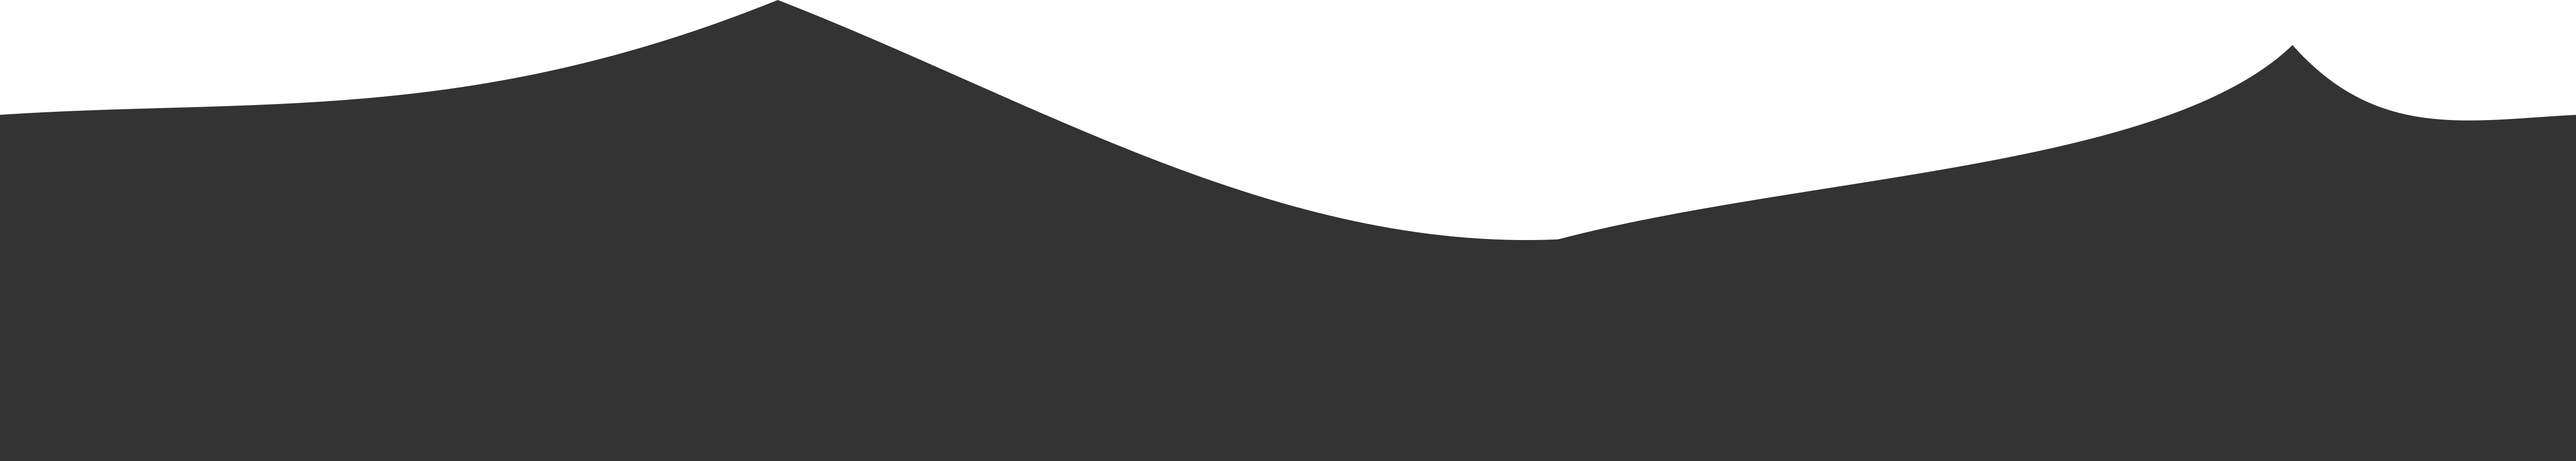
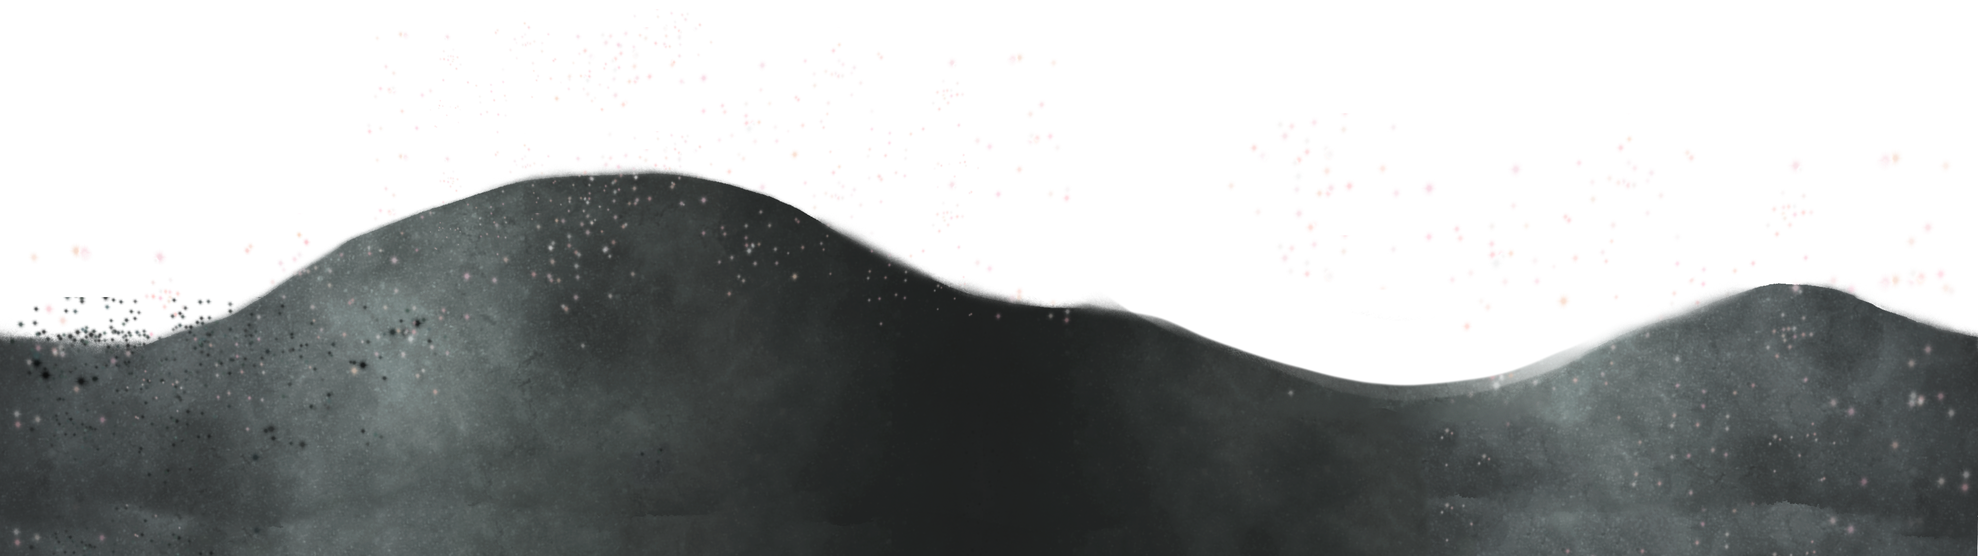
FIX: Parallax + NEW assets Lucie
- Corrections et ajustements sur le parallax pour faciliter l'automatisation.
- Mise en place des nouveaux assets de Lucie

diff --git a/src/scenes/Hud.ts b/src/scenes/Hud.ts
@@ -1,5 +1,6 @@
 import {Scene} from 'phaser';
 import {TextureKey} from './Preloader.ts';
+import ColorList from '../domain/ColorList.ts';
 
 const TIMMER_POSITION_X = 150;
 const TIMMER_POSITION_Y = 60;
@@ -18,28 +19,28 @@ const PROGRESS_BAR_POSITION_Y = 39;
 
 const PROGRESS_BAR_BACKGROUND_COLORS = [
   {
-    color: 0xE32332,
-    asset: TextureKey.hud.progress_bar_background_red,
+    color: ColorList.h2n('#E32332'),
+    asset: TextureKey.hud.background_gauge_0,
     position: {x: BACKGROUND_PROGRESS_BAR_POSITION_X + 7, y: BACKGROUND_PROGRESS_BAR_POSITION_Y - 3}
   },
   {
     color: 0x8E17EB,
-    asset: TextureKey.hud.progress_bar_background_blue,
+    asset: TextureKey.hud.background_gauge_1,
     position: {x: BACKGROUND_PROGRESS_BAR_POSITION_X + 3, y: BACKGROUND_PROGRESS_BAR_POSITION_Y - 6.4}
   },
   {
     color: 0x2FE640,
-    asset: TextureKey.hud.progress_bar_background_green,
+    asset: TextureKey.hud.background_gauge_2,
     position: {x: BACKGROUND_PROGRESS_BAR_POSITION_X + 8, y: BACKGROUND_PROGRESS_BAR_POSITION_Y - 4}
   },
   {
     color: 0xF649A8,
-    asset: TextureKey.hud.progress_bar_background_pink,
+    asset: TextureKey.hud.background_gauge_3,
     position: {x: BACKGROUND_PROGRESS_BAR_POSITION_X + 8, y: BACKGROUND_PROGRESS_BAR_POSITION_Y - 6}
   },
   {
     color: 0xF8DB1B,
-    asset: TextureKey.hud.progress_bar_background_yellow,
+    asset: TextureKey.hud.background_gauge_4,
     position: {x: BACKGROUND_PROGRESS_BAR_POSITION_X + 11, y: BACKGROUND_PROGRESS_BAR_POSITION_Y}
   }
 ];
@@ -68,11 +69,11 @@ export class Hud extends Scene {
     this.timerBackground = this.add.sprite(
         TIMMER_POSITION_X,
         TIMMER_POSITION_Y,
-        TIMER_BACKGROUNDS[0].asset
+        TextureKey.hud.timer_background_pink
     );
     this.timerBackground.setScale(0.2);
     this.timerBackground.setOrigin(0.5, 0.5);
-    this.currentTimerAsset = TIMER_BACKGROUNDS[0].asset;
+    this.currentTimerAsset = TextureKey.hud.timer_background_pink;
 
     this.timerText = this.add.text(
         TIMMER_POSITION_X,
@@ -112,20 +113,6 @@ export class Hud extends Scene {
 
     const formattedTime = `${minutes.toString().padStart(2, '0')}:${seconds.toString().padStart(2, '0')}`;
     this.timerText.setText(formattedTime);
-
-    this.updateTimerBackground(elapsedTime);
-  }
-
-  updateTimerBackground(elapsedTime: number) {
-    const timerData = TIMER_BACKGROUNDS.find((data, index) => {
-      const nextData = TIMER_BACKGROUNDS[index + 1];
-      return elapsedTime >= data.time && (!nextData || elapsedTime < nextData.time);
-    }) || TIMER_BACKGROUNDS[0];
-
-    if (this.currentTimerAsset !== timerData.asset) {
-      this.currentTimerAsset = timerData.asset;
-      this.timerBackground.setTexture(timerData.asset);
-    }
   }
 
   updateProgressBar() {

diff --git a/src/components/player/PlayerWithBubbleTeas.ts b/src/components/player/PlayerWithBubbleTeas.ts
@@ -37,13 +37,15 @@ export default class PlayerWithBubbleTeas {
 
     this.playerCharacter.setPosition(this.x, this.y);
 
-    this.bubbleTeaStockList[0]?.move(this.playerCharacter.x + this.playerCharacter.getPlayerImageBounds().width * .699, this.playerCharacter.getPlayerImageBounds().height * 1.91);
-    this.bubbleTeaStockList[1]?.move(this.playerCharacter.x + this.playerCharacter.getPlayerImageBounds().width * .8745, this.playerCharacter.getPlayerImageBounds().height * 1.91);
-    this.bubbleTeaStockList[2]?.move(this.playerCharacter.x + this.playerCharacter.getPlayerImageBounds().width * 1.05, this.playerCharacter.getPlayerImageBounds().height * 1.91);
+    const verticalOffset = this.playerCharacter.getBounds().bottom - this.scene.scale.height;
 
-    this.bubbleTeaActifList[0]?.move(this.playerCharacter.x + this.playerCharacter.getPlayerImageBounds().width * .699, this.playerCharacter.getPlayerImageBounds().height * 1.727);
-    this.bubbleTeaActifList[1]?.move(this.playerCharacter.x + this.playerCharacter.getPlayerImageBounds().width * .8745, this.playerCharacter.getPlayerImageBounds().height * 1.727);
-    this.bubbleTeaActifList[2]?.move(this.playerCharacter.x + this.playerCharacter.getPlayerImageBounds().width * 1.05, this.playerCharacter.getPlayerImageBounds().height * 1.727);
+    this.bubbleTeaStockList[0]?.move(this.playerCharacter.x + this.playerCharacter.getPlayerImageBounds().width * .699, verticalOffset + this.playerCharacter.getPlayerImageBounds().height * 1.91);
+    this.bubbleTeaStockList[1]?.move(this.playerCharacter.x + this.playerCharacter.getPlayerImageBounds().width * .8745, verticalOffset + this.playerCharacter.getPlayerImageBounds().height * 1.91);
+    this.bubbleTeaStockList[2]?.move(this.playerCharacter.x + this.playerCharacter.getPlayerImageBounds().width * 1.05, verticalOffset + this.playerCharacter.getPlayerImageBounds().height * 1.91);
+
+    this.bubbleTeaActifList[0]?.move(this.playerCharacter.x + this.playerCharacter.getPlayerImageBounds().width * .699, verticalOffset + this.playerCharacter.getPlayerImageBounds().height * 1.727);
+    this.bubbleTeaActifList[1]?.move(this.playerCharacter.x + this.playerCharacter.getPlayerImageBounds().width * .8745, verticalOffset + this.playerCharacter.getPlayerImageBounds().height * 1.727);
+    this.bubbleTeaActifList[2]?.move(this.playerCharacter.x + this.playerCharacter.getPlayerImageBounds().width * 1.05, verticalOffset + this.playerCharacter.getPlayerImageBounds().height * 1.727);
   }
 
   public setHeight(height: number) {

diff --git a/src/components/Parallax.ts b/src/components/Parallax.ts
@@ -1,38 +1,51 @@
 import {TextureKey} from '../scenes/Preloader.ts';
+import Phaser from 'phaser';
 
-const INITIAL_SPEED_BG1 = 0.2;
-const INITIAL_SPEED_BG2 = 2;
 
 export default class Parallax {
 
   private scene: Phaser.Scene;
-  private bg1!: Phaser.GameObjects.TileSprite;
-  private bg2!: Phaser.GameObjects.TileSprite;
-  private speedBg1: number = INITIAL_SPEED_BG1;
-  private speedBg2: number = INITIAL_SPEED_BG2;
+  private backgroundList: Phaser.GameObjects.TileSprite[];
+  private speed: number = .02;
 
   constructor(scene: Phaser.Scene) {
     this.scene = scene;
-    this.bg1 = this.scene.add.tileSprite(0, this.scene.scale.height, 0, 0, TextureKey.background.bg1).setOrigin(0, 1);
-    this.bg1.w = this.bg1.displayWidth;
-    this.bg2 = this.scene.add.tileSprite(0, this.scene.scale.height, 0, 0, TextureKey.background.bg2).setOrigin(0, 1);
-    this.bg2.w = this.bg2.displayWidth;
+    this.backgroundList = [];
+
+    const spriteR = new Phaser.Geom.Rectangle(
+        0,
+        0,
+        this.scene.scale.width,
+        this.scene.scale.height,
+    );
+
+    for (const texture of [
+      TextureKey.background.parallax_bg4,
+      TextureKey.background.parallax_bg3,
+      TextureKey.background.parallax_bg2,
+      TextureKey.background.parallax_bg1,
+      TextureKey.background.road,
+    ]) {
+      const bg = this.scene.add.tileSprite(
+          spriteR.centerX,
+          spriteR.height,
+          spriteR.width,
+          0, //spriteR.height,
+          texture
+      ).setOrigin(.5, 1);
+      this.backgroundList.push(bg);
+    }
   }
 
   update(): void {
-    this.bg1.tilePositionX += this.speedBg1;
-    this.bg2.tilePositionX += this.speedBg2;
-
-    if (this.bg1.tilePositionX > this.bg1.displayWidth) {
-      this.bg1.tilePositionX = 0;
-    }
-    if (this.bg2.tilePositionX > this.bg2.displayWidth) {
-      this.bg2.tilePositionX = 0;
+    let velocity = this.speed;
+    for (const bg of this.backgroundList) {
+      bg.tilePositionX += velocity;
+      velocity *= 4;
     }
   }
 
-  updateSpeed(coeff: number): void {
-    this.speedBg1 = INITIAL_SPEED_BG1 * coeff;
-    this.speedBg2 = INITIAL_SPEED_BG2 * coeff;
+  updateSpeed(speed: number): void {
+    this.speed = speed;
   }
 }

diff --git a/src/scenes/Preloader.ts b/src/scenes/Preloader.ts
@@ -114,8 +114,14 @@ export const TextureKey = {
     timer_background_pink: 'timer_background_pink',
   },
   background: {
-    bg1: 'parallax_bg2',
-    bg2: 'parallax_bg1',
+    parallax_bg1: 'parallax_bg1',
+    parallax_bg2: 'parallax_bg2',
+    parallax_bg3: 'parallax_bg3',
+    parallax_bg4: 'parallax_bg4',
+    plant1: 'plant1',
+    plant2: 'plant2',
+    plant3: 'plant3',
+    road: 'road',
   }
 };
 
@@ -152,7 +158,8 @@ export class Preloader extends Scene {
   }
 
   create() {
-    this.scene.start('MainMenu');
+    // this.scene.start('MainMenu'); todo P0 !!!!!!!!!!!
+    this.scene.start('Game');
   }
 
   private preloadPlayer() {
@@ -220,8 +227,14 @@ export class Preloader extends Scene {
 
   private preloadParallaxBackground(): void {
     this.preloadFromListKey([
-      TextureKey.background.bg1,
-      TextureKey.background.bg2,
+      TextureKey.background.parallax_bg1,
+      TextureKey.background.parallax_bg2,
+      TextureKey.background.parallax_bg3,
+      TextureKey.background.parallax_bg4,
+      TextureKey.background.plant1,
+      TextureKey.background.plant2,
+      TextureKey.background.plant3,
+      TextureKey.background.road,
     ], 'background');
   }
 }

diff --git a/src/scenes/Game.ts b/src/scenes/Game.ts
@@ -3,6 +3,7 @@ import Rng from '../domain/Rng.ts';
 import ColorableArea from '../components/Colorable/ColorableArea.ts';
 import Parallax from '../components/Parallax.ts';
 import PlayerWithBubbleTeas from '../components/player/PlayerWithBubbleTeas.ts';
+import {TextureKey} from './Preloader.ts';
 
 export class Game extends Scene {
   private rng: Rng;
@@ -32,12 +33,14 @@ export class Game extends Scene {
     this.music = this.sound.add('cinematic_opening', {loop: true, volume: 0.5});
     this.music.play();
 
-    const player = new PlayerWithBubbleTeas(this, this.scale.width * 0.1, this.scale.height);
+    const roadHeight = this.textures.get(TextureKey.background.road).get().height;
+
+    const player = new PlayerWithBubbleTeas(this, this.scale.width * 0.1, this.scale.height - roadHeight / 4);
     player.setHeight(this.scale.height * .5);
 
     this.scene.launch('Hud');
 
-    this.areaTest = new ColorableArea(this, this.scale.width / 2, this.scale.height / 2, 10,  this.rng);
+    this.areaTest = new ColorableArea(this, this.scale.width / 2, this.scale.height / 2, 10, this.rng);
 
 
     this.input.on('pointerup', (pointer) => {

diff --git a/src/domain/ColorList.ts b/src/domain/ColorList.ts
@@ -16,6 +16,10 @@ const COLOR_LIST = [
 
 export default class ColorList {
 
+  public static h2n(hex: string): number {
+    return h2n(hex);
+  }
+
   public static getRandomColor(): number {
     return COLOR_LIST[Math.floor(Math.random() * COLOR_LIST.length)];
   }
